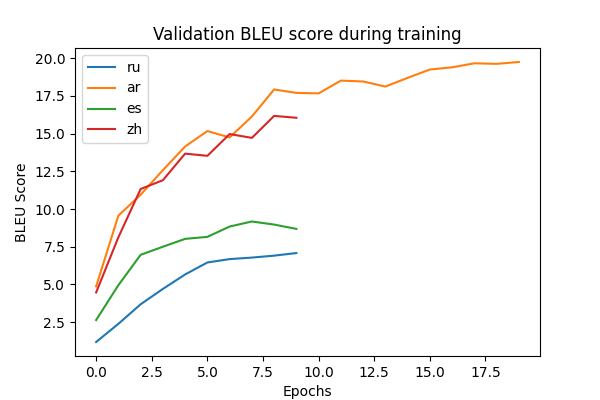
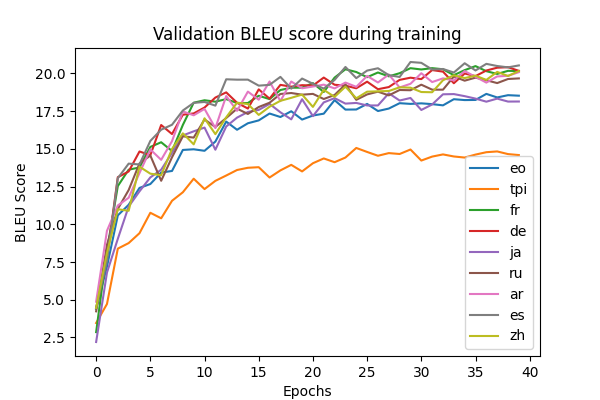
new graphs (still need formatting)

diff --git a/make_graphs.py b/make_graphs.py
@@ -5,7 +5,7 @@ langs = ['eo', 'tpi', 'fr', 'de', 'ja', 'ru', 'ar', 'es', 'zh']
 
 folder = "models_{lang}-en"
 
-langs = ['ru', 'ar', 'es', 'zh']
+langs = ['eo', 'tpi', 'fr', 'de', 'ja', 'ru', 'ar', 'es', 'zh']
 bar_data = []
 for lang in langs:
     with open(folder.format(lang=lang) + "/val_results.json") as f:
